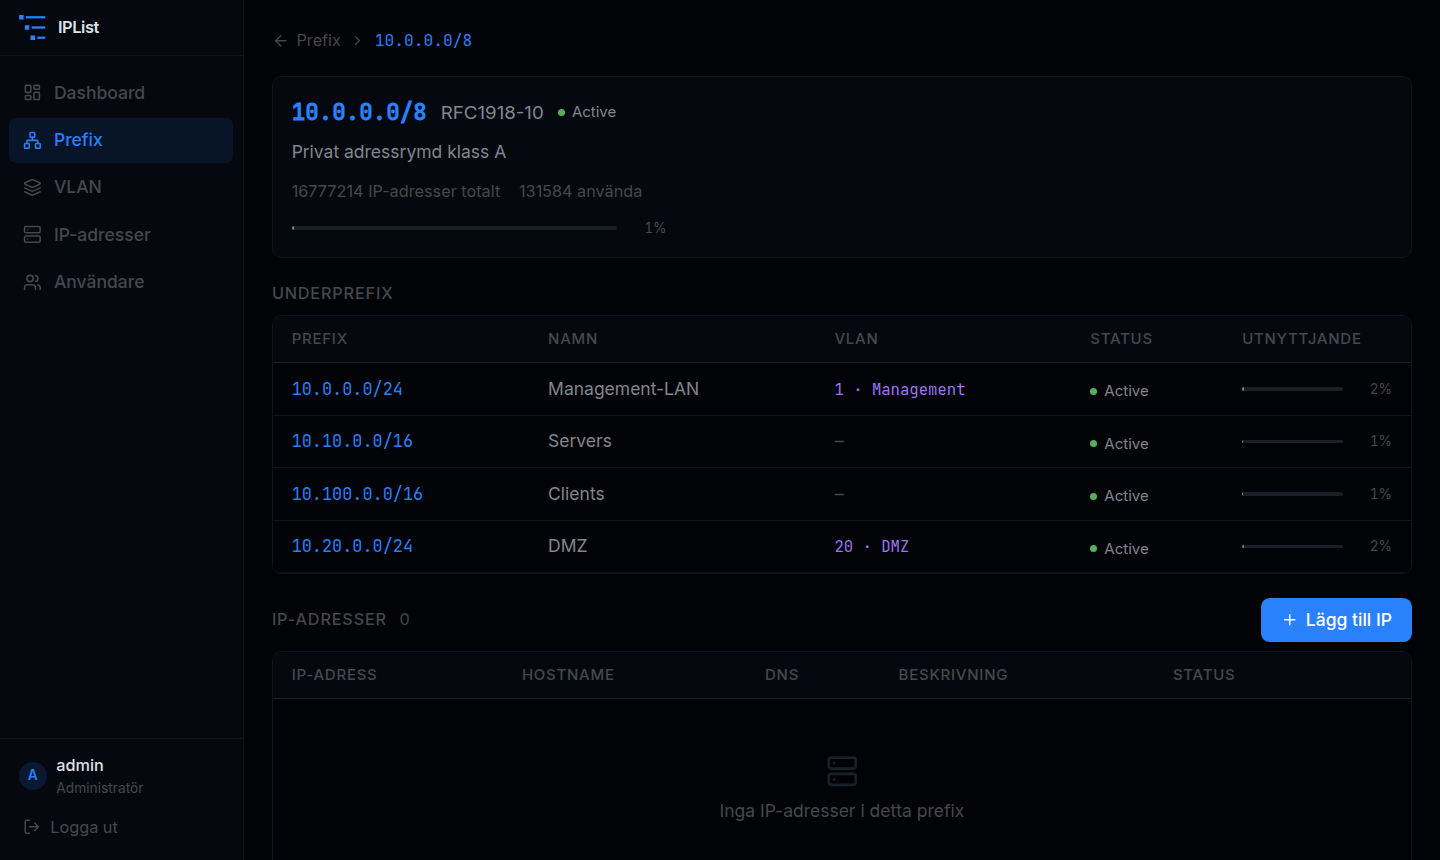
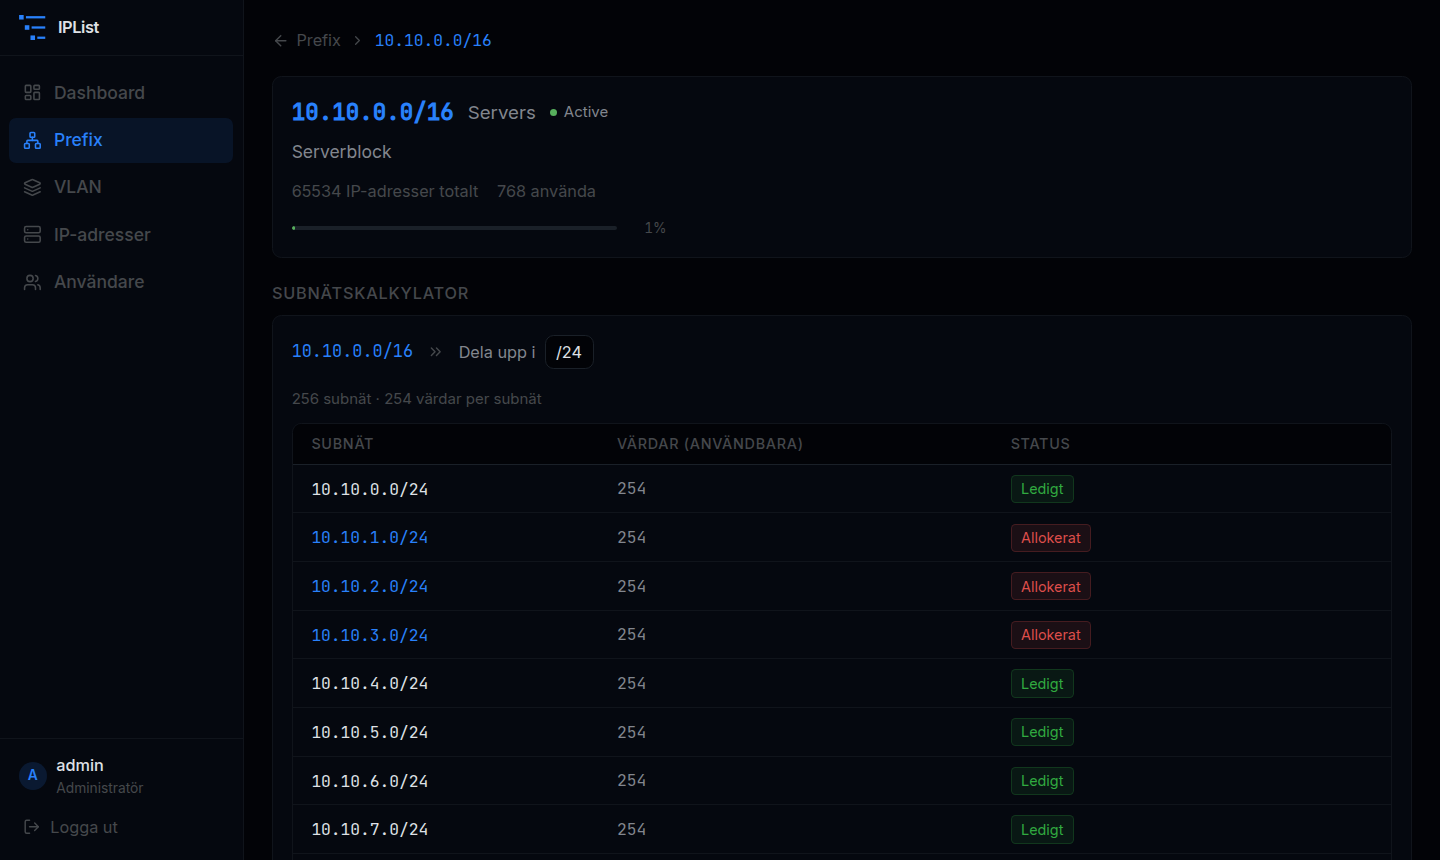
Update screenshots and README for subnet calculator feature
- New prefix_detail screenshot shows the subnet calculator with /24 split
  results, including allocated/free status badges
- Updated README: add subnet calculator to features list, bump Go version
  to 1.24, add /prefixes/:id/subnets to API reference

diff --git a/README.md b/README.md
@@ -5,7 +5,8 @@ A self-hosted IP Address Management (IPAM) tool for tracking VLANs, IP prefixes,
 ## Features
 
 - **VLAN management** — create and manage VLANs with status tracking
-- **Prefix management** — hierarchical prefix tree with utilization bars (CIDR-based)
+- **Prefix management** — hierarchical prefix tree with utilization bars, supports IPv4 and IPv6
+- **Subnet calculator** — split any prefix into smaller blocks, see which subnets are already allocated, and create new prefixes directly from the calculator
 - **IP address tracking** — hostname, DNS name, description, and status per address
 - **Role-based access control** — `admin` (full access) and `read` (read-only) roles with JWT authentication
 - **Data export** — download any list as CSV, JSON, or YAML
@@ -26,7 +27,7 @@ A self-hosted IP Address Management (IPAM) tool for tracking VLANs, IP prefixes,
 
 | Layer    | Technology                                      |
 |----------|-------------------------------------------------|
-| Backend  | Go 1.22, chi router, modernc SQLite (pure Go)  |
+| Backend  | Go 1.24, chi router, modernc SQLite (pure Go)  |
 | Auth     | JWT (HS256, 24 h expiry), bcrypt passwords      |
 | Frontend | React 18, TypeScript, Vite, Tailwind CSS        |
 | Routing  | React Router v6                                 |
@@ -139,6 +140,7 @@ The REST API is available under `/api/v1/`. All endpoints except `POST /auth/log
 | DELETE | /vlans/:id            | admin | Delete VLAN            |
 | GET    | /prefixes             | read  | List prefixes          |
 | GET    | /prefixes/:id         | read  | Get prefix with IPs    |
+| GET    | /prefixes/:id/subnets | read  | Split prefix into subnets (`?prefix_len=N`) |
 | POST   | /prefixes             | admin | Create prefix          |
 | PUT    | /prefixes/:id         | admin | Update prefix          |
 | DELETE | /prefixes/:id         | admin | Delete prefix          |